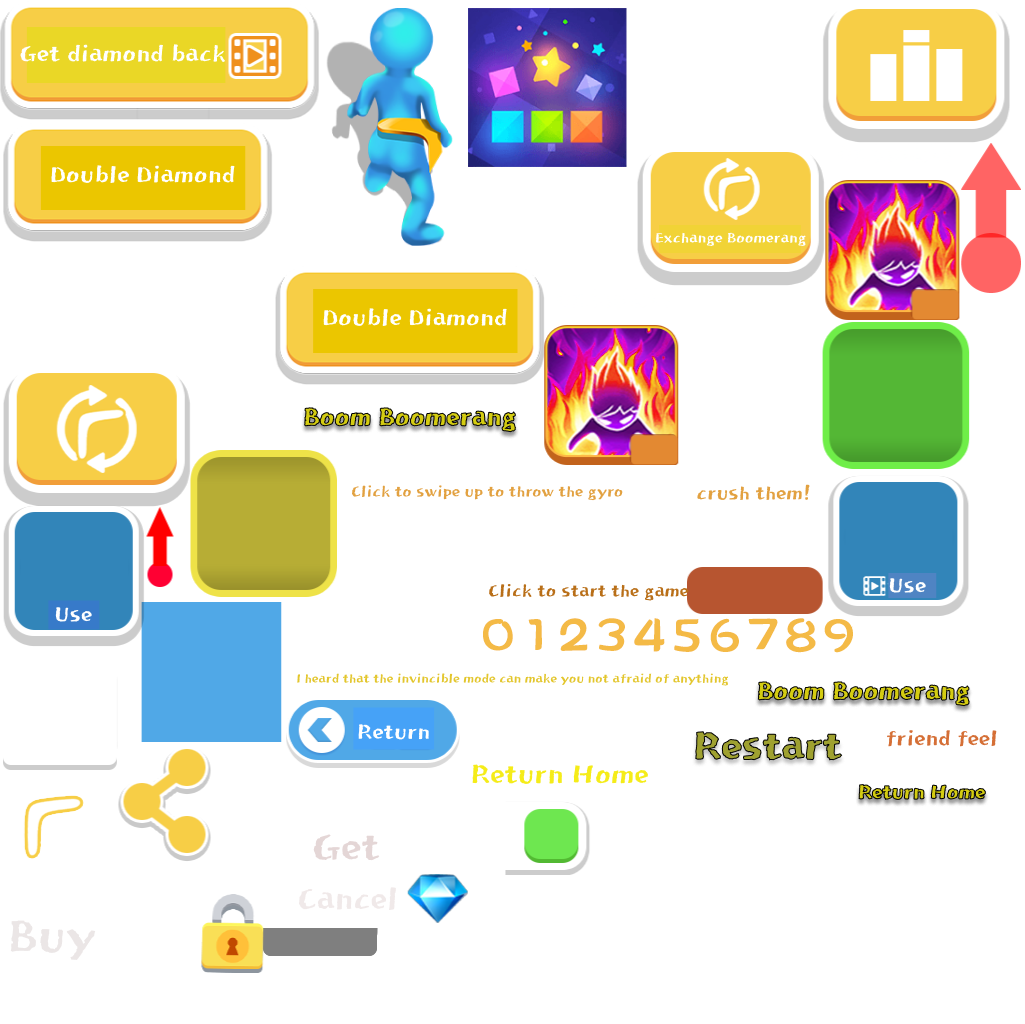
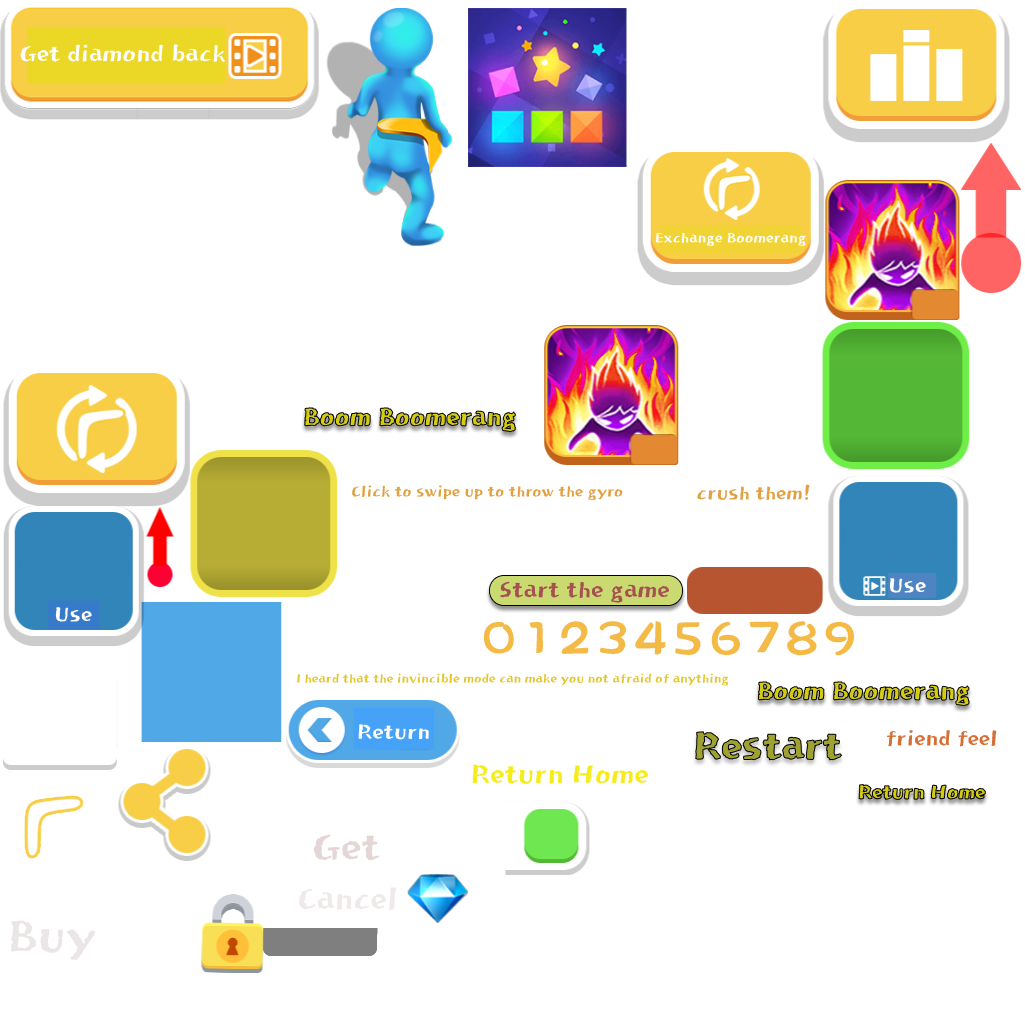
skin translated

Changed region(s): [[0.0, 0.125, 0.281, 0.25], [0.2498, 0.25, 0.5307, 0.375], [0.4683, 0.5625, 0.8429, 0.6562]]

diff --git a/js/bundle.js b/js/bundle.js
@@ -7888,10 +7888,10 @@ var UnlockSkinView = /** @class */ (function (_super) {
             this._selectSkin_Text.visible = false;
             var lab = this._useSkin_Btn.getChildByName("lab");
             if (SkinMgr_1.default.Instance.GetCurrentSkin() == index) {
-                lab.text = "取消使用";
+                lab.text = "Cancel Use";
             }
             else {
-                lab.text = "使用皮肤";
+                lab.text = "Use Skin";
             }
         }
         else if (unlockByVidelo) {
@@ -7928,7 +7928,7 @@ var UnlockSkinView = /** @class */ (function (_super) {
                 this._unlockByVideo_View.visible = false;
                 this._useSkin_Btn.visible = false;
                 this._selectSkin_Text.visible = true;
-                this._selectSkin_Text.text = "点击图标选择您想要的皮肤";
+                this._selectSkin_Text.text = "Select the skin";
             }
         }
     };
@@ -8051,12 +8051,12 @@ var UnlockSkinView = /** @class */ (function (_super) {
                 if (SkinMgr_1.default.Instance.GetCurrentSkin() != index) {
                     using.visible = true;
                     SkinMgr_1.default.Instance.SetCurrentSkin(index);
-                    lab.text = "取消使用";
+                    lab.text = "Cancel Use";
                 }
                 else {
                     using.visible = false;
                     SkinMgr_1.default.Instance.SetCurrentSkin(-1);
-                    lab.text = "使用皮肤";
+                    lab.text = "Use Skin";
                 }
             }
             else {
